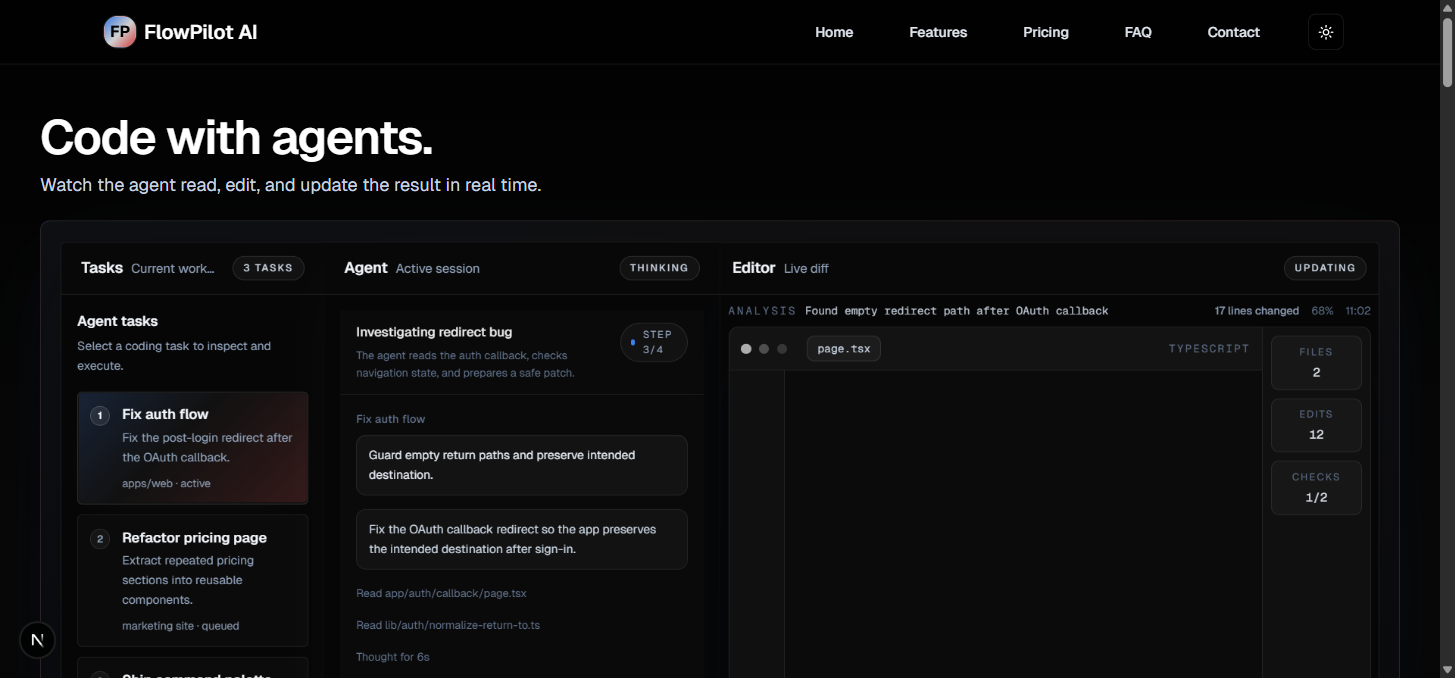
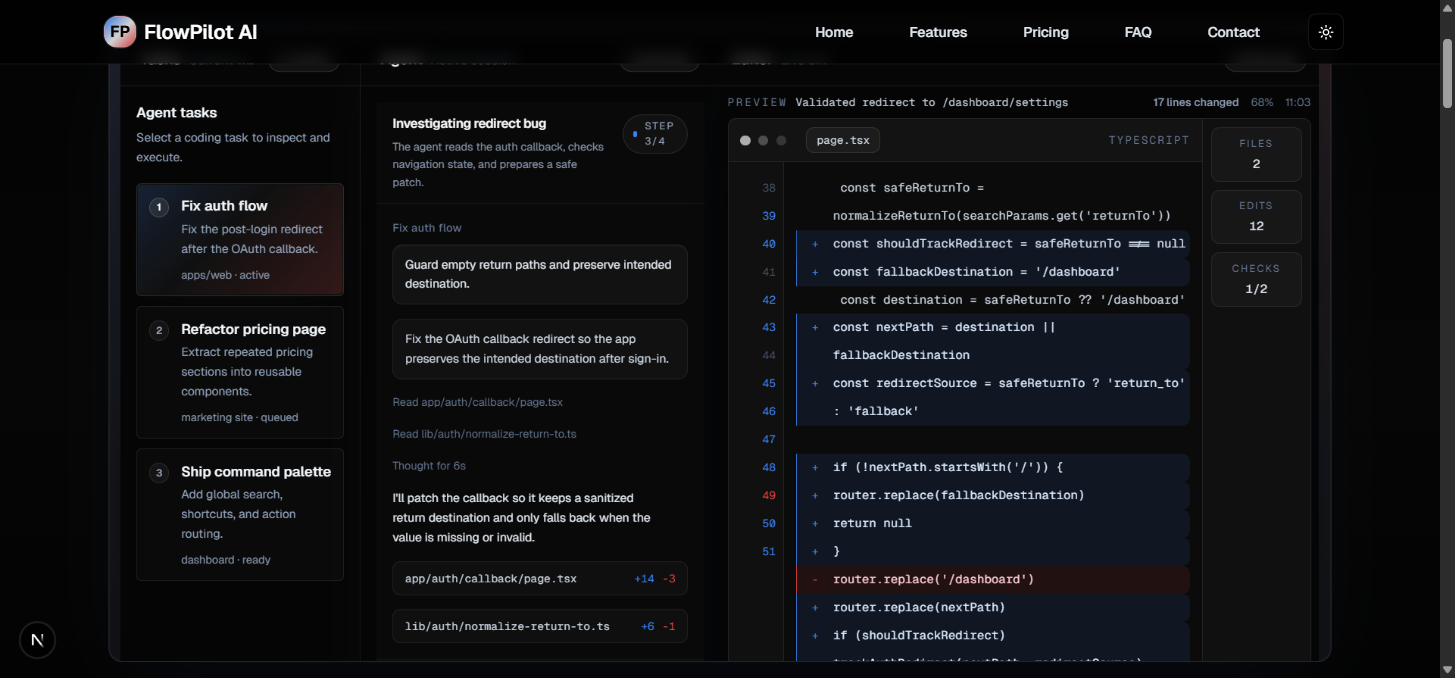
feat: AI Workflo - narrow demo app

diff --git a/cli/kits/blocks/components/sections/product-demo/RunConsolePanel.tsx b/cli/kits/blocks/components/sections/product-demo/RunConsolePanel.tsx
@@ -113,8 +113,8 @@ export function RunConsolePanel({ state }: RunConsolePanelProps) {
   const visibleCode = activeCode.slice(0, visibleLineCount);
 
   return (
-    <div className="flex h-full flex-col text-slate-900 [text-rendering:geometricPrecision] dark:text-white/95">
-      <div className="mb-2 flex items-center justify-between gap-3 text-[11px] tracking-[0.01em]">
+    <div className="flex h-full flex-col text-slate-900 [text-rendering:geometricPrecision] [font-synthesis-weight:none] dark:text-white/95">
+      <div className="mb-2 flex items-center justify-between gap-3 text-[11px] tracking-[0.005em]">
         <div className="min-w-0 truncate font-mono text-slate-500 dark:text-slate-400">
           <span className="mr-2 uppercase tracking-[0.18em] text-slate-400 dark:text-slate-500">
             {activeEntry?.source ??
@@ -123,7 +123,7 @@ export function RunConsolePanel({ state }: RunConsolePanelProps) {
               "active"}
           </span>
 
-          <span className="truncate text-slate-700 dark:text-slate-300/95">
+          <span className="truncate text-slate-800 dark:text-slate-300/95">
             {activeEntry?.message ??
               displayEntry?.message ??
               state.editorSummary ??
@@ -143,13 +143,13 @@ export function RunConsolePanel({ state }: RunConsolePanelProps) {
         </div>
       </div>
 
-      <div className="flex min-h-0 flex-1 overflow-hidden rounded-[8px] border border-black/10 bg-[#f7f7f5] shadow-[0_20px_60px_-30px_rgba(15,23,42,0.18)] dark:border-white/10 dark:bg-[#0b0b0b] dark:shadow-[0_20px_60px_-30px_rgba(2,8,23,0.95)]">
+      <div className="flex min-h-0 flex-1 overflow-hidden rounded-[8px] border border-black/10 bg-[#f6f6f3] shadow-[0_20px_60px_-30px_rgba(15,23,42,0.18)] dark:border-white/10 dark:bg-[#0b0b0b] dark:shadow-[0_20px_60px_-30px_rgba(2,8,23,0.95)]">
         <div className="flex min-h-0 min-w-0 flex-1 flex-col">
-          <div className="flex items-center gap-2 border-b border-black/8 bg-black/[0.025] px-3 py-2 dark:border-white/8 dark:bg-white/[0.03]">
+          <div className="flex items-center gap-2 border-b border-black/8 bg-black/[0.03] px-3 py-2 dark:border-white/8 dark:bg-white/[0.03]">
             <span className="h-2.5 w-2.5 rounded-full bg-white/75 dark:bg-white/65" />
             <span className="h-2.5 w-2.5 rounded-full bg-white/35 dark:bg-white/25" />
             <span className="h-2.5 w-2.5 rounded-full bg-white/20 dark:bg-white/15" />
-            <div className="ml-3 rounded-md border border-black/10 bg-white/80 px-2.5 py-1 font-mono text-[11px] text-slate-700 dark:border-white/10 dark:bg-white/[0.04] dark:text-slate-300">
+            <div className="ml-3 rounded-md border border-black/10 bg-white/88 px-2.5 py-1 font-mono text-[11px] text-slate-800 dark:border-white/10 dark:bg-white/[0.04] dark:text-slate-300">
               {state.editorTabLabel ?? state.title}
             </div>
             {state.editorLanguage ? (
@@ -159,7 +159,7 @@ export function RunConsolePanel({ state }: RunConsolePanelProps) {
             ) : null}
           </div>
 
-          <div className="grid min-h-0 flex-1 grid-cols-[3.5rem_minmax(0,1fr)] bg-[#f7f7f5] dark:bg-[#0b0b0b]">
+          <div className="grid min-h-0 flex-1 grid-cols-[3.5rem_minmax(0,1fr)] bg-[#f6f6f3] dark:bg-[#0b0b0b]">
             <div className="border-r border-black/8 bg-black/[0.018] px-2 py-3 font-mono text-[11px] leading-7 text-slate-400 dark:border-white/8 dark:bg-white/[0.02] dark:text-slate-600">
               {visibleCode.map((line, index) => {
                 const isAdded = line.trimStart().startsWith("+");
@@ -180,7 +180,7 @@ export function RunConsolePanel({ state }: RunConsolePanelProps) {
               })}
             </div>
 
-            <div className="relative px-3 py-3 font-mono text-[12px] leading-7 text-slate-700 dark:text-slate-300">
+            <div className="relative px-3 py-3 font-mono text-[12px] leading-7 text-slate-800 dark:text-slate-300">
               {visibleCode.map((line, index) => {
                 const isAdded = line.trimStart().startsWith("+");
                 const isRemoved = line.trimStart().startsWith("-");
@@ -191,12 +191,12 @@ export function RunConsolePanel({ state }: RunConsolePanelProps) {
                     className={cn(
                       "flex rounded-r-md border-l border-transparent pl-3 transition-colors duration-300",
                       isAdded &&
-                        "border-[#3b82f6]/80 bg-[#3b82f6]/8 text-slate-900 dark:text-[#dbeafe]",
+                        "border-[#3b82f6]/80 bg-[#3b82f6]/10 text-slate-950 dark:text-[#dbeafe]",
                       isRemoved &&
-                        "border-[#ef4444]/80 bg-[#ef4444]/8 text-slate-900 dark:text-[#fecdd3]",
+                        "border-[#ef4444]/80 bg-[#ef4444]/10 text-slate-950 dark:text-[#fecdd3]",
                       !isAdded &&
                         !isRemoved &&
-                        "text-slate-700 dark:text-slate-300",
+                        "text-slate-800 dark:text-slate-300",
                       displayEntry?.highlighted &&
                         index === Math.min(1, visibleCode.length - 1) &&
                         "animate-pulse",

diff --git a/cli/kits/blocks/app/templates/aiworkflow/components/Hero.tsx b/cli/kits/blocks/app/templates/aiworkflow/components/Hero.tsx
@@ -187,13 +187,23 @@ const scenarios: ProductDemoScenario[] = [
           source: "editor",
           status: "info",
           highlighted: true,
-          lineNumber: "42",
+          lineNumber: "38",
           code: [
             " const safeReturnTo = normalizeReturnTo(searchParams.get('returnTo'))",
+            "+const shouldTrackRedirect = safeReturnTo !== null",
+            "+const fallbackDestination = '/dashboard'",
             " const destination = safeReturnTo ?? '/dashboard'",
+            "+const nextPath = destination || fallbackDestination",
+            "+const redirectSource = safeReturnTo ? 'return_to' : 'fallback'",
+            " ",
+            "+if (!nextPath.startsWith('/')) {",
+            "+  router.replace(fallbackDestination)",
+            "+  return null",
+            "+}",
             "-router.replace('/dashboard')",
-            "+router.replace(destination)",
-            "+trackAuthRedirect(destination)",
+            "+router.replace(nextPath)",
+            "+if (shouldTrackRedirect) trackAuthRedirect(nextPath, redirectSource)",
+            "+logAuthNavigation('oauth_callback_redirect', { destination: nextPath })",
             " return null",
           ],
         },
@@ -816,7 +826,8 @@ export function Hero() {
           className: "max-w-3xl pt-1 lg:pt-0",
         }}
         demoContainer={{
-          className: "relative min-h-[32rem] lg:min-h-[38rem]",
+          className:
+            "relative mx-auto min-h-[32rem] w-full max-w-[90%] lg:min-h-[38rem]",
         }}
         buttonsContainer={{
           className: "mt-4 flex-col items-start sm:flex-row sm:items-center",

diff --git a/cli/kits/blocks/components/sections/product-demo/WorkflowStudioPanel.tsx b/cli/kits/blocks/components/sections/product-demo/WorkflowStudioPanel.tsx
@@ -72,24 +72,24 @@ export function WorkflowStudioPanel({ state }: WorkflowStudioPanelProps) {
   const isRunning = visibleCount < transcript.length;
 
   return (
-    <div className="flex h-full flex-col overflow-hidden bg-[#f6f6f4] text-slate-900 [text-rendering:geometricPrecision] dark:bg-[#0a0a0a] dark:text-slate-100">
+    <div className="flex h-full flex-col overflow-hidden bg-[#f5f5f2] text-slate-900 [text-rendering:geometricPrecision] [font-synthesis-weight:none] dark:bg-[#090909] dark:text-slate-100">
       <div className="border-b border-black/8 px-4 py-3 dark:border-white/8">
         <div className="flex items-start justify-between gap-3">
           <div className="min-w-0">
             {state.title && (
-              <h4 className="text-[13px] font-semibold tracking-[-0.01em] text-slate-900 dark:text-white/96">
+              <h4 className="text-[13px] font-semibold tracking-[-0.02em] text-slate-950 dark:text-white/96">
                 {state.title}
               </h4>
             )}
             {state.subtitle && (
-              <p className="mt-1 max-w-sm text-[11px] leading-relaxed text-slate-500 dark:text-slate-400/90">
+              <p className="mt-1 max-w-sm text-[11px] leading-relaxed text-slate-600 dark:text-slate-400/90">
                 {state.subtitle}
               </p>
             )}
           </div>
 
           {typeof activeStep === "number" ? (
-            <div className="flex items-center gap-2 rounded-full border border-black/10 bg-black/[0.035] px-2.5 py-1 text-[10px] uppercase tracking-[0.16em] text-slate-500 dark:border-white/10 dark:bg-white/[0.03] dark:text-slate-400">
+            <div className="flex items-center gap-2 rounded-full border border-black/10 bg-black/[0.04] px-2.5 py-1 text-[10px] uppercase tracking-[0.16em] text-slate-600 dark:border-white/10 dark:bg-white/[0.03] dark:text-slate-400">
               <span
                 className={cn(
                   "h-1.5 w-1.5 rounded-full",
@@ -114,7 +114,7 @@ export function WorkflowStudioPanel({ state }: WorkflowStudioPanelProps) {
                     {entry.text}
                   </div>
                   {activeNode?.description ? (
-                    <div className="rounded-lg border border-black/10 bg-black/[0.02] px-3 py-2.5 text-[12px] leading-relaxed text-slate-700 shadow-[0_10px_24px_-18px_rgba(15,23,42,0.08)] dark:border-white/8 dark:bg-white/[0.035] dark:text-slate-200 dark:shadow-[inset_0_1px_0_rgba(255,255,255,0.03)]">
+                    <div className="rounded-lg border border-black/10 bg-black/[0.03] px-3 py-2.5 text-[12px] leading-relaxed text-slate-800 shadow-[0_10px_24px_-18px_rgba(15,23,42,0.08)] dark:border-white/8 dark:bg-white/[0.035] dark:text-slate-200 dark:shadow-[inset_0_1px_0_rgba(255,255,255,0.03)]">
                       {activeNode.description}
                     </div>
                   ) : null}
@@ -126,7 +126,7 @@ export function WorkflowStudioPanel({ state }: WorkflowStudioPanelProps) {
               return (
                 <div
                   key={entry.id}
-                  className="rounded-lg border border-black/10 bg-black/[0.025] px-3 py-2.5 text-[12px] leading-relaxed text-slate-700 dark:border-white/8 dark:bg-white/[0.03] dark:text-slate-300"
+                  className="rounded-lg border border-black/10 bg-black/[0.03] px-3 py-2.5 text-[12px] leading-relaxed text-slate-800 dark:border-white/8 dark:bg-white/[0.03] dark:text-slate-300"
                 >
                   {entry.text}
                 </div>
@@ -137,7 +137,7 @@ export function WorkflowStudioPanel({ state }: WorkflowStudioPanelProps) {
               return (
                 <div
                   key={entry.id}
-                  className="max-w-[92%] text-[12px] leading-relaxed text-slate-700 dark:text-slate-200"
+                  className="max-w-[92%] text-[12px] leading-relaxed text-slate-800 dark:text-slate-200"
                 >
                   {entry.text}
                 </div>

diff --git a/cli/kits/blocks/components/sections/product-demo/DemoWindow.tsx b/cli/kits/blocks/components/sections/product-demo/DemoWindow.tsx
@@ -20,7 +20,7 @@ export interface DemoWindowProps {
 
 const STATUS_TONE_CLASSES: Record<ProductDemoStatusTone, string> = {
   neutral: "border-border/60 bg-muted/60 text-muted-foreground",
-  info: "border-black/10 bg-black/[0.04] text-slate-600 dark:border-white/12 dark:bg-white/[0.04] dark:text-slate-300",
+  info: "border-black/10 bg-black/[0.045] text-slate-700 dark:border-white/12 dark:bg-white/[0.045] dark:text-slate-200",
 
   success:
     "border-emerald-500/30 bg-emerald-500/10 text-emerald-600 dark:text-emerald-300",
@@ -47,7 +47,7 @@ export function DemoWindow({
   return (
     <section
       className={cn(
-        "group relative flex h-full min-h-[14rem] flex-col overflow-hidden border border-black/8 bg-white/96 shadow-[0_28px_80px_-34px_rgba(15,23,42,0.18)] dark:border-white/10 dark:bg-[#050505] dark:shadow-[0_24px_70px_-32px_rgba(2,8,23,0.82)]",
+        "group relative flex h-full min-h-[14rem] flex-col overflow-hidden border border-black/8 bg-[#fcfcfa] shadow-[0_28px_80px_-34px_rgba(15,23,42,0.18)] [text-rendering:geometricPrecision] dark:border-white/10 dark:bg-[#050505] dark:shadow-[0_24px_70px_-32px_rgba(2,8,23,0.82)]",
 
         enableMotion &&
           "transition-[transform,opacity,box-shadow,border-color] duration-500 ease-out motion-reduce:transition-none",
@@ -63,7 +63,7 @@ export function DemoWindow({
     >
       <header
         className={cn(
-          "relative flex min-h-[3.25rem] items-center justify-between gap-3 border-b border-black/8 px-4 py-2.5 [text-rendering:geometricPrecision] sm:px-5 dark:border-white/10",
+          "relative flex min-h-[3.25rem] items-center justify-between gap-3 border-b border-black/8 px-4 py-2.5 [text-rendering:geometricPrecision] [font-synthesis-weight:none] sm:px-5 dark:border-white/10",
 
           chromeClassName,
         )}
@@ -79,7 +79,7 @@ export function DemoWindow({
 
           <div className="min-w-0 flex items-center gap-2 overflow-hidden">
             <div className="flex min-w-0 items-center gap-2 whitespace-nowrap">
-              <h3 className="shrink-0 text-sm font-semibold tracking-[-0.01em] text-slate-900 sm:text-[0.95rem] dark:text-slate-100">
+              <h3 className="shrink-0 text-sm font-semibold tracking-[-0.02em] text-slate-950 sm:text-[0.95rem] dark:text-slate-100">
                 {window.title}
               </h3>
               {window.badge && (
@@ -88,7 +88,7 @@ export function DemoWindow({
                 </span>
               )}
               {window.subtitle && (
-                <p className="min-w-0 truncate text-[11px] leading-5 tracking-[0.01em] text-slate-500 dark:text-slate-400 sm:text-[0.8rem]">
+                <p className="min-w-0 truncate text-[11px] leading-5 tracking-[0.005em] text-slate-600 dark:text-slate-400 sm:text-[0.8rem]">
                   {window.subtitle}
                 </p>
               )}

diff --git a/cli/kits/blocks/components/sections/product-demo/DemoStage.tsx b/cli/kits/blocks/components/sections/product-demo/DemoStage.tsx
@@ -271,14 +271,15 @@ export function DemoStage({
       data-active-scenario-key={activeScenario.key}
       data-active-scenario-index={activeIndex}
       className={cn(
-        "relative isolate min-h-[33rem] w-full overflow-hidden rounded-[10px] bg-[#e9e8e3] shadow-[0_36px_100px_-48px_rgba(15,23,42,0.18)] dark:bg-[#111113] dark:shadow-[0_24px_80px_-32px_rgba(15,23,42,0.62)]",
+        "relative isolate min-h-[33rem] w-full overflow-hidden rounded-[14px] border border-black/6 bg-[#dcdad4] shadow-[0_36px_100px_-48px_rgba(15,23,42,0.18)] dark:border-white/8 dark:bg-[#151518] dark:shadow-[0_24px_80px_-32px_rgba(15,23,42,0.62)]",
         className,
       )}
       aria-label={ariaLabel}
     >
-      <div className="absolute inset-0 bg-[radial-gradient(circle_at_top_left,rgba(59,130,246,0.06),transparent_32%),radial-gradient(circle_at_top_right,rgba(239,68,68,0.05),transparent_30%),linear-gradient(180deg,#f1f0eb_0%,#e4e3dc_100%)] dark:bg-[radial-gradient(circle_at_top_left,rgba(59,130,246,0.08),transparent_32%),radial-gradient(circle_at_top_right,rgba(239,68,68,0.08),transparent_30%),linear-gradient(180deg,#141416_0%,#0f0f11_100%)]" />
+      <div className="absolute inset-0 bg-[radial-gradient(circle_at_top_left,rgba(59,130,246,0.05),transparent_34%),radial-gradient(circle_at_top_right,rgba(239,68,68,0.04),transparent_32%),linear-gradient(180deg,#e7e4de_0%,#d8d5ce_100%)] dark:bg-[radial-gradient(circle_at_top_left,rgba(59,130,246,0.07),transparent_34%),radial-gradient(circle_at_top_right,rgba(239,68,68,0.06),transparent_32%),linear-gradient(180deg,#19191c_0%,#121215_100%)]" />
+      <div className="pointer-events-none absolute inset-[1px] rounded-[13px] ring-1 ring-white/28 dark:ring-white/6" />
 
-      <div className="relative z-10 flex min-h-[33rem] flex-col gap-3 p-0 sm:p-0 lg:p-0">
+      <div className="relative z-10 flex min-h-[33rem] flex-col gap-3 p-3 sm:p-3 lg:p-3">
         <div className="grid gap-4 lg:hidden">
           {windows.map((windowData) => {
             if (getWindowShellClass(windowData.key) === "hidden") {